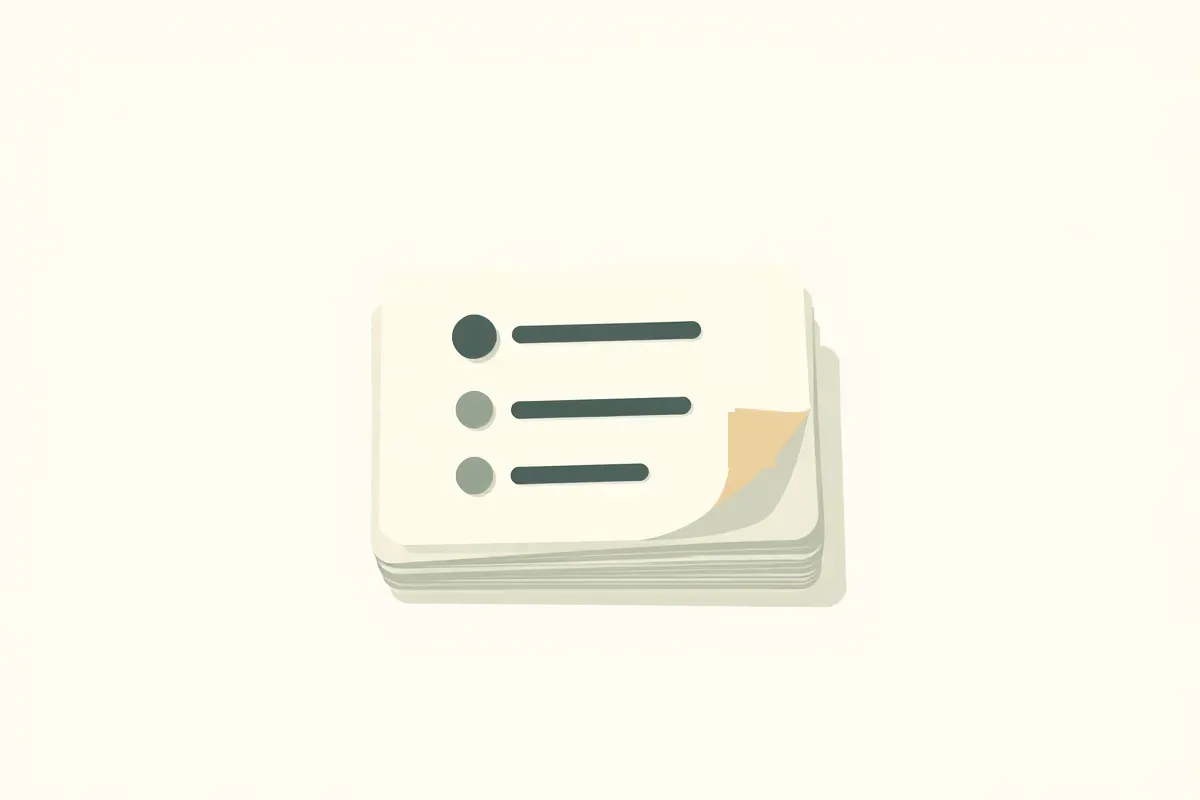
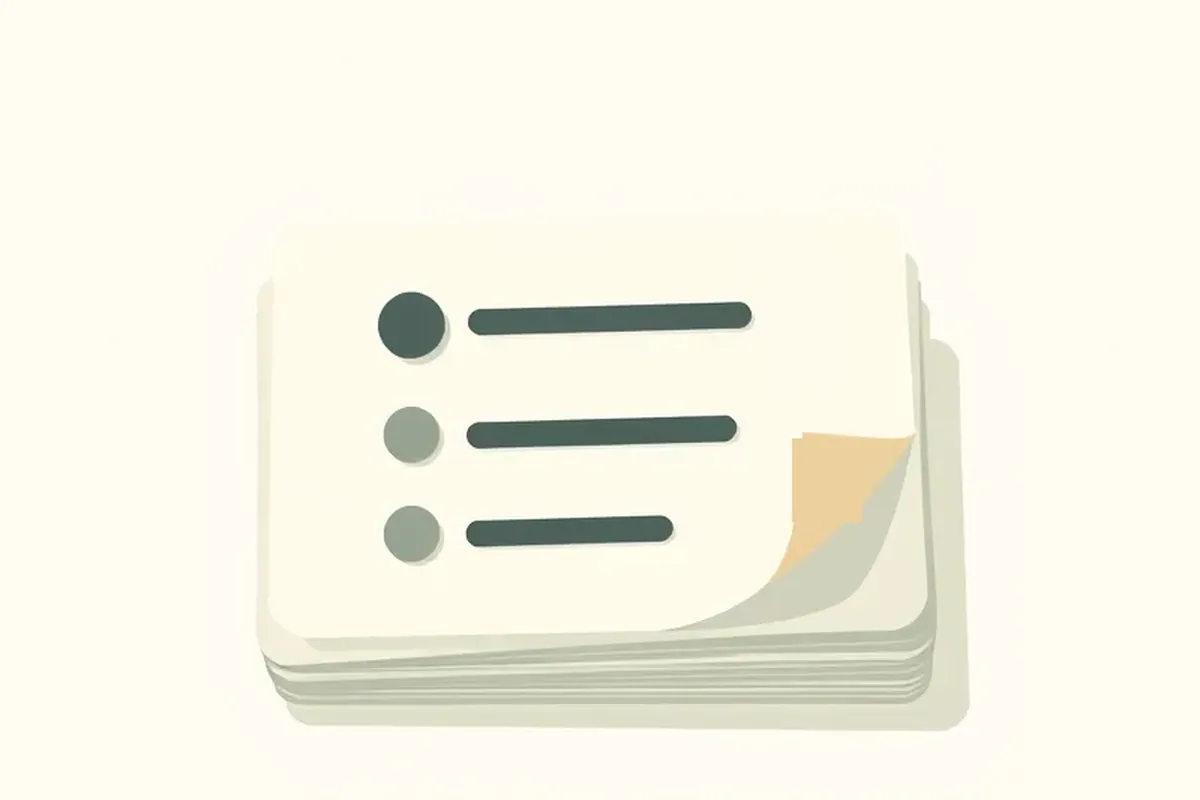
読みもの: 表セルの折り返しとはみ出しを調整、making-questions の本文画像をトリミング
- 表の th/td に overflow-wrap:anywhere と word-break:auto-phrase（200%拡大で横はみ出し0）
- PC幅(1024px〜)のtdにtext-wrap:balance
- making-questions の本文画像を被写体にトリミング

Changed region(s): [[0.2158, 0.3125, 0.8325, 0.9375], [0.2158, 0.5312, 0.2467, 0.6562], [0.2158, 0.4688, 0.2467, 0.5]]

diff --git a/read/ai-subsidy-reality.html b/read/ai-subsidy-reality.html
@@ -39,8 +39,9 @@
 .prose h1,.prose h2,.prose h3{text-wrap:balance}
 .prose p,.prose li,.prose td,.prose th,.prose figcaption{text-wrap:pretty}
 .prose th,.prose nav li a{text-wrap:balance}
+@media(min-width:1024px){.prose td{text-wrap:balance}}
 .prose td{overflow-wrap:anywhere;word-break:auto-phrase}
-.prose th{overflow-wrap:break-word;word-break:auto-phrase}
+.prose th{overflow-wrap:anywhere;word-break:auto-phrase}
 </style>
 <script async src="https://pagead2.googlesyndication.com/pagead/js/adsbygoogle.js?client=ca-pub-8289616283786904" crossorigin="anonymous"></script>
 <script async src="https://www.googletagmanager.com/gtag/js?id=G-XRJ40EFR6C"></script>

diff --git a/read/keep-going-system.html b/read/keep-going-system.html
@@ -39,8 +39,9 @@
 .prose h1,.prose h2,.prose h3{text-wrap:balance}
 .prose p,.prose li,.prose td,.prose th,.prose figcaption{text-wrap:pretty}
 .prose th,.prose nav li a{text-wrap:balance}
+@media(min-width:1024px){.prose td{text-wrap:balance}}
 .prose td{overflow-wrap:anywhere;word-break:auto-phrase}
-.prose th{overflow-wrap:break-word;word-break:auto-phrase}
+.prose th{overflow-wrap:anywhere;word-break:auto-phrase}
 </style>
 <script async src="https://pagead2.googlesyndication.com/pagead/js/adsbygoogle.js?client=ca-pub-8289616283786904" crossorigin="anonymous"></script>
 <script async src="https://www.googletagmanager.com/gtag/js?id=G-XRJ40EFR6C"></script>

diff --git a/read/kintai-excel-to-app.html b/read/kintai-excel-to-app.html
@@ -39,8 +39,9 @@
 .prose h1,.prose h2,.prose h3{text-wrap:balance}
 .prose p,.prose li,.prose td,.prose th,.prose figcaption{text-wrap:pretty}
 .prose th,.prose nav li a{text-wrap:balance}
+@media(min-width:1024px){.prose td{text-wrap:balance}}
 .prose td{overflow-wrap:anywhere;word-break:auto-phrase}
-.prose th{overflow-wrap:break-word;word-break:auto-phrase}
+.prose th{overflow-wrap:anywhere;word-break:auto-phrase}
 </style>
 <script async src="https://pagead2.googlesyndication.com/pagead/js/adsbygoogle.js?client=ca-pub-8289616283786904" crossorigin="anonymous"></script>
 <script async src="https://www.googletagmanager.com/gtag/js?id=G-XRJ40EFR6C"></script>

diff --git a/read/lessons-building-apps.html b/read/lessons-building-apps.html
@@ -39,8 +39,9 @@
 .prose h1,.prose h2,.prose h3{text-wrap:balance}
 .prose p,.prose li,.prose td,.prose th,.prose figcaption{text-wrap:pretty}
 .prose th,.prose nav li a{text-wrap:balance}
+@media(min-width:1024px){.prose td{text-wrap:balance}}
 .prose td{overflow-wrap:anywhere;word-break:auto-phrase}
-.prose th{overflow-wrap:break-word;word-break:auto-phrase}
+.prose th{overflow-wrap:anywhere;word-break:auto-phrase}
 </style>
 <script async src="https://pagead2.googlesyndication.com/pagead/js/adsbygoogle.js?client=ca-pub-8289616283786904" crossorigin="anonymous"></script>
 <script async src="https://www.googletagmanager.com/gtag/js?id=G-XRJ40EFR6C"></script>

diff --git a/read/making-questions.html b/read/making-questions.html
@@ -39,8 +39,9 @@
 .prose h1,.prose h2,.prose h3{text-wrap:balance}
 .prose p,.prose li,.prose td,.prose th,.prose figcaption{text-wrap:pretty}
 .prose th,.prose nav li a{text-wrap:balance}
+@media(min-width:1024px){.prose td{text-wrap:balance}}
 .prose td{overflow-wrap:anywhere;word-break:auto-phrase}
-.prose th{overflow-wrap:break-word;word-break:auto-phrase}
+.prose th{overflow-wrap:anywhere;word-break:auto-phrase}
 </style>
 <script async src="https://pagead2.googlesyndication.com/pagead/js/adsbygoogle.js?client=ca-pub-8289616283786904" crossorigin="anonymous"></script>
 <script async src="https://www.googletagmanager.com/gtag/js?id=G-XRJ40EFR6C"></script>

diff --git a/read/no-login-design.html b/read/no-login-design.html
@@ -39,8 +39,9 @@
 .prose h1,.prose h2,.prose h3{text-wrap:balance}
 .prose p,.prose li,.prose td,.prose th,.prose figcaption{text-wrap:pretty}
 .prose th,.prose nav li a{text-wrap:balance}
+@media(min-width:1024px){.prose td{text-wrap:balance}}
 .prose td{overflow-wrap:anywhere;word-break:auto-phrase}
-.prose th{overflow-wrap:break-word;word-break:auto-phrase}
+.prose th{overflow-wrap:anywhere;word-break:auto-phrase}
 </style>
 <script async src="https://pagead2.googlesyndication.com/pagead/js/adsbygoogle.js?client=ca-pub-8289616283786904" crossorigin="anonymous"></script>
 <script async src="https://www.googletagmanager.com/gtag/js?id=G-XRJ40EFR6C"></script>

diff --git a/read/one-hand-mobile.html b/read/one-hand-mobile.html
@@ -39,8 +39,9 @@
 .prose h1,.prose h2,.prose h3{text-wrap:balance}
 .prose p,.prose li,.prose td,.prose th,.prose figcaption{text-wrap:pretty}
 .prose th,.prose nav li a{text-wrap:balance}
+@media(min-width:1024px){.prose td{text-wrap:balance}}
 .prose td{overflow-wrap:anywhere;word-break:auto-phrase}
-.prose th{overflow-wrap:break-word;word-break:auto-phrase}
+.prose th{overflow-wrap:anywhere;word-break:auto-phrase}
 </style>
 <script async src="https://pagead2.googlesyndication.com/pagead/js/adsbygoogle.js?client=ca-pub-8289616283786904" crossorigin="anonymous"></script>
 <script async src="https://www.googletagmanager.com/gtag/js?id=G-XRJ40EFR6C"></script>
